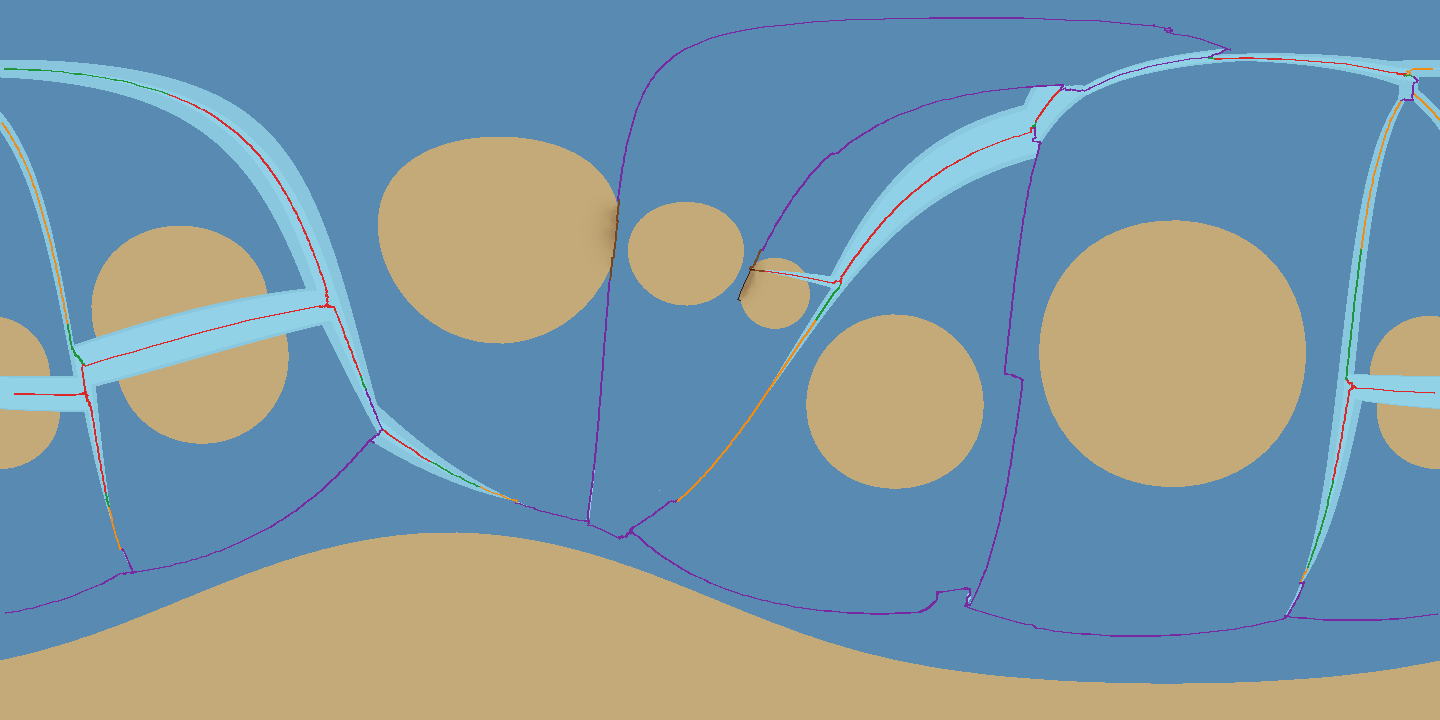
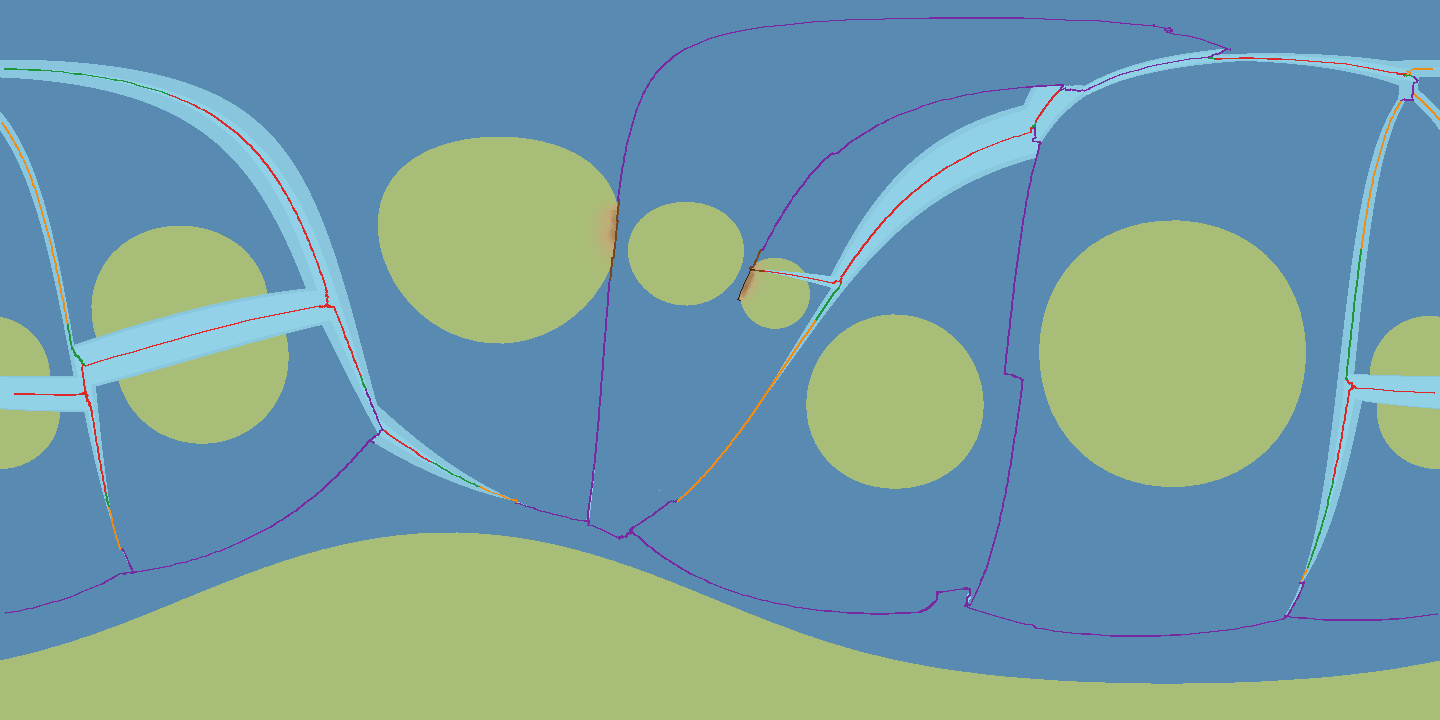
Isostatic relief from the thickness field, and hypsometric tints on the maps
ContinentMesh.elevation_km: Airy isostasy, 0.15 km of elevation per km of
crust beyond 35 km (the density contrast of crust against mantle). Maps
tint continent by that elevation: lowland green, upland tan, mountain
brown, high peaks white. On the Earth-like world at 20 Myr the collided
edges stand 1.2 km high.

diff --git a/poly/render.py b/poly/render.py
@@ -6,15 +6,26 @@ import spherely
 from PIL import Image, ImageDraw
 
 from poly import sphere
+from poly.mesh import ISOSTASY
 
 COLOURS = dict(ridge=(220, 40, 40), trench=(120, 40, 160), transform=(30, 150, 60),
                converging=(240, 140, 20), collision=(120, 70, 30), suture=(60, 30, 10))
 CONTINENT = (196, 170, 120)
-THICKENED = np.array([120, 85, 55])  # continent thickened by THICKENED_KM or more
+# Hypsometric tints for continent by isostatic elevation (km): lowland, upland, mountain, high peaks.
+RELIEF = [(0., (168, 190, 120)), (.5, (196, 170, 120)), (1.5, (140, 100, 60)), (3., (245, 245, 245))]
 CONTINENT_KM = 35.
-THICKENED_KM = 15.
 YOUNG, OLD = np.array([150, 215, 235]), np.array([20, 50, 110])
 OCEAN_SPAN_MYR = 150.
+
+
+def _tint(elevation_km):
+    """Colours for elevations, interpolated along RELIEF."""
+    levels = np.array([e for e, _ in RELIEF])
+    colours = np.array([c for _, c in RELIEF], float)
+    out = np.zeros((len(elevation_km), 3))
+    for k in range(3):
+        out[:, k] = np.interp(elevation_km, levels, colours[:, k])
+    return np.round(out).astype(np.uint8)
 
 
 def draw(world, path, width=720, boundaries=True):
@@ -45,8 +56,7 @@ def draw(world, path, width=720, boundaries=True):
             if piece.kind == 'continent':
                 mesh = getattr(piece, 'mesh', None)
                 thick = mesh.sample(local[hit]) if mesh is not None else getattr(piece, 'thickness_km', CONTINENT_KM)
-                f = np.clip((np.asarray(thick, float) - CONTINENT_KM) / THICKENED_KM, 0., 1.)
-                colour[hit] = np.round(np.array(CONTINENT)[None] * (1 - f)[:, None] + THICKENED[None] * f[:, None]).astype(np.uint8)
+                colour[hit] = _tint(ISOSTASY * (np.asarray(thick, float) - CONTINENT_KM) * np.ones(int(hit.sum())))
             else:
                 age = 0. if piece.born_myr is None else max(world.time_myr - piece.born_myr, 0.)
                 f = min(age / OCEAN_SPAN_MYR, 1.)

diff --git a/poly/mesh.py b/poly/mesh.py
@@ -20,6 +20,8 @@ from scipy.spatial import Delaunay, cKDTree
 from poly import sphere
 
 SPACING_KM = 200.   # interior node spacing
+REFERENCE_KM = 35.  # thickness of continent at sea level
+ISOSTASY = .15      # elevation per km of extra thickness: (rho_mantle - rho_crust) / rho_mantle
 REACH_KM = 300.     # shortening thickens the crust within about this of where it happened
 MINIMUM_KM2 = 2e4   # a piece smaller than this (a 140 km disc) keeps one thickness, no mesh
 LOST_KM = 1.        # a node this far outside the piece's new outline was on the ground lost
@@ -100,6 +102,11 @@ class ContinentMesh:
         if covered <= 0.:
             return 0.
         return float((self.node_areas_km2() * self.thickness).sum()) * polygon_km2 / covered
+
+    def elevation_km(self, thickness=None):
+        """Airy isostatic elevation (km above sea level) of crust `thickness` km thick."""
+        thickness = self.thickness if thickness is None else np.asarray(thickness, float)
+        return ISOSTASY * (thickness - REFERENCE_KM)
 
     def sample(self, points):
         """Thickness at `points` (plate frame): inverse-distance over the three nearest nodes."""
